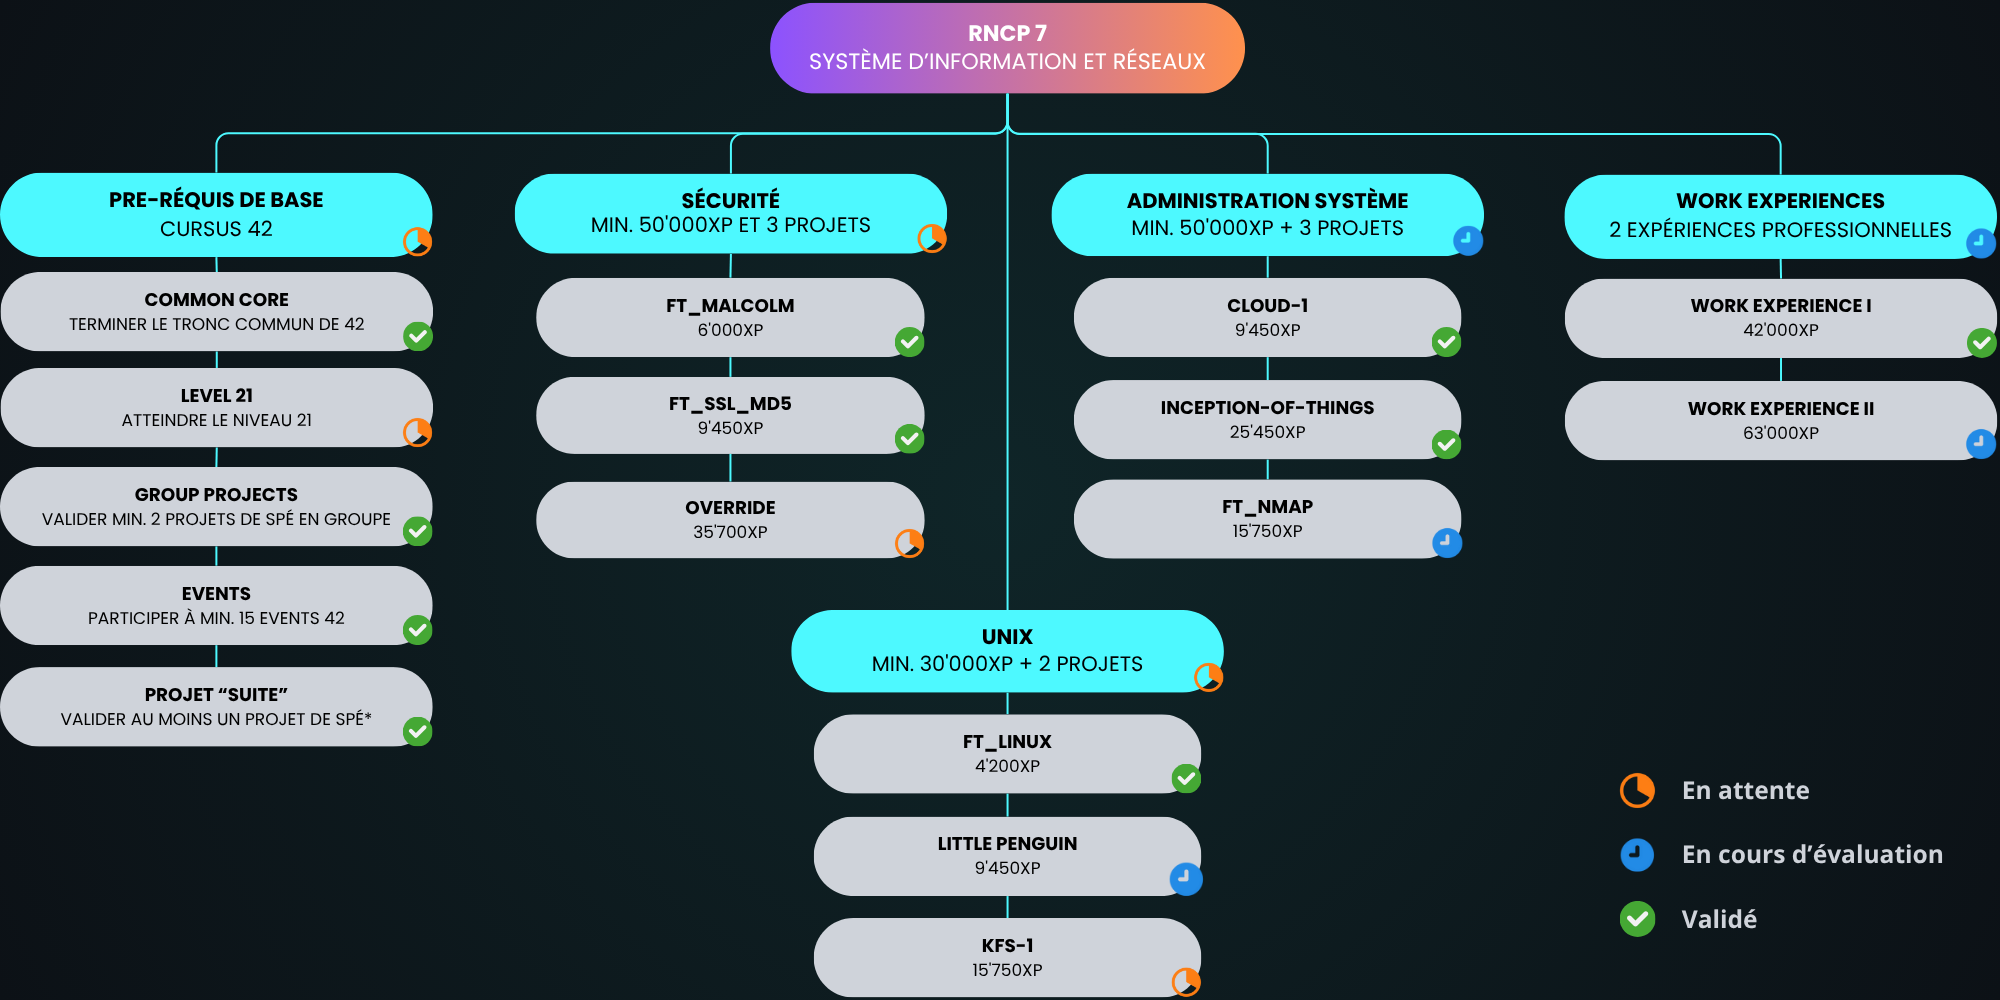
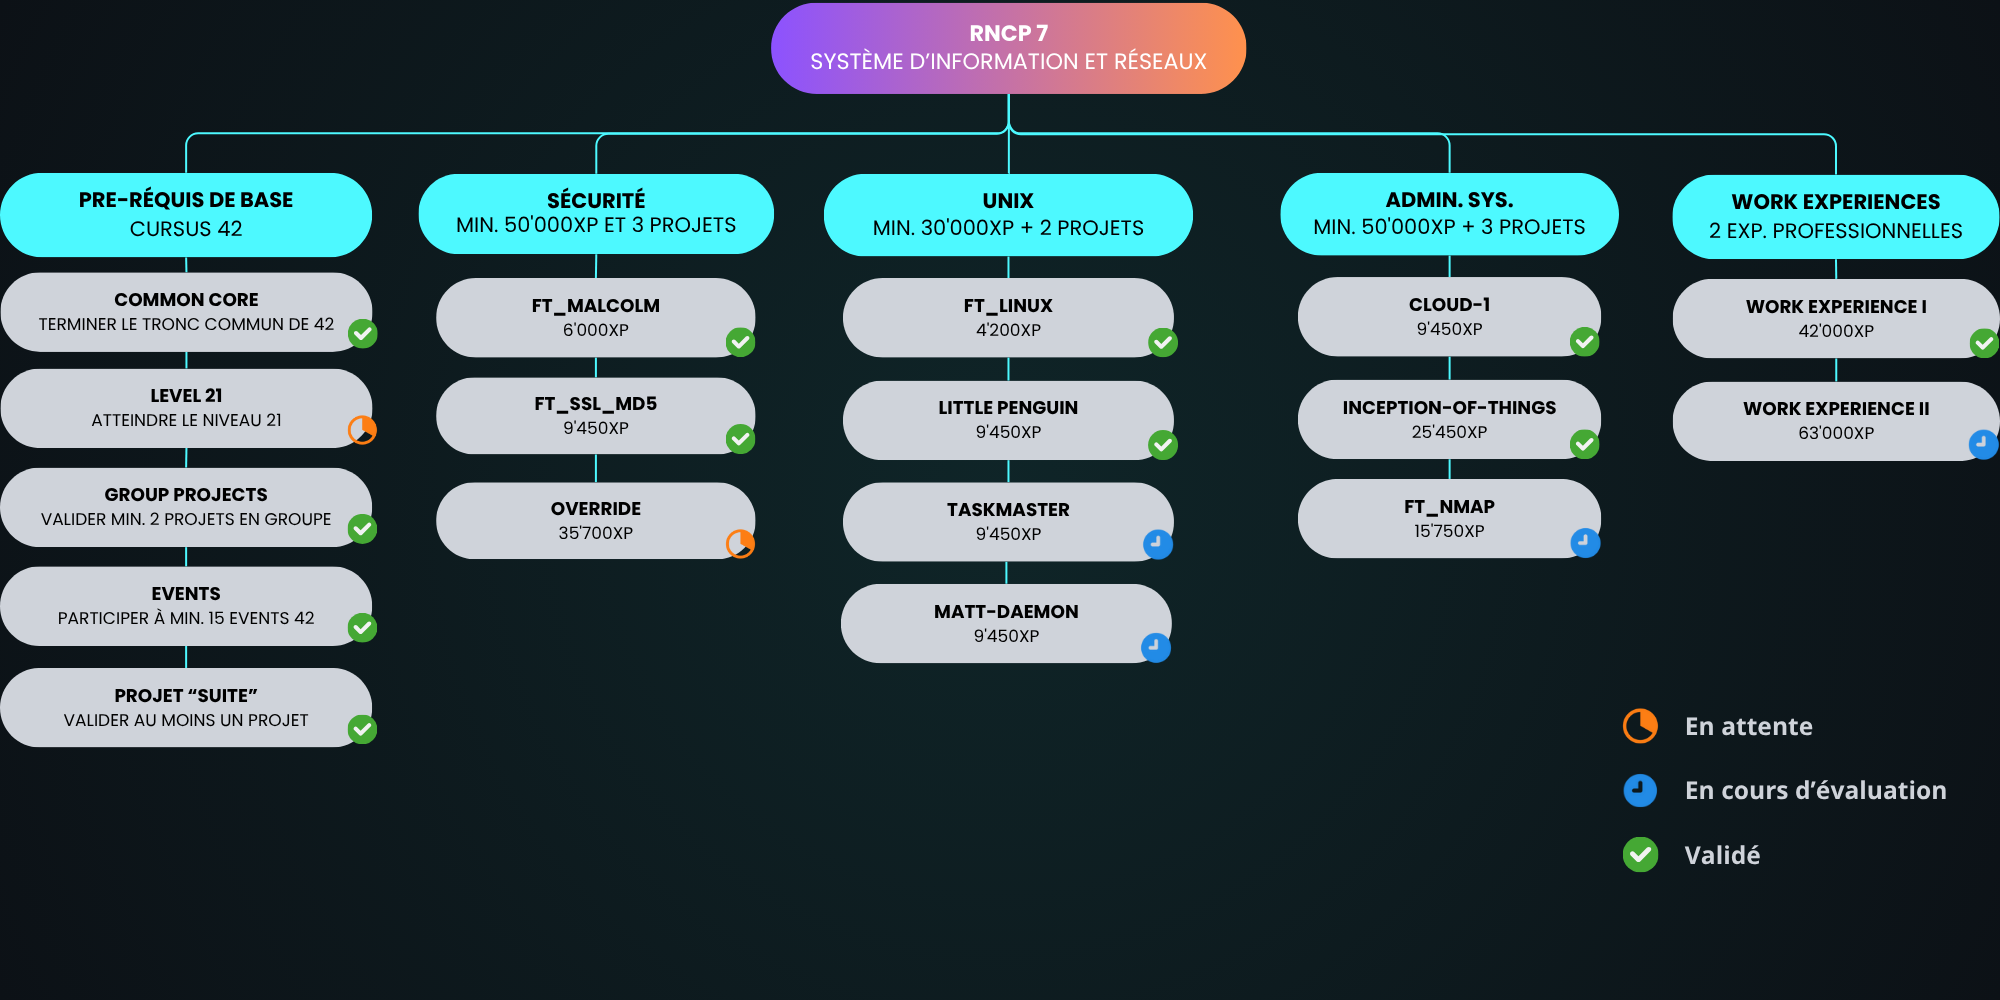
update RNCP + grade little-penguin

diff --git a/README.md b/README.md
@@ -59,7 +59,7 @@
 <img src="_git_utils/103.png" alt="grade" style="width: 19%;"></a>
 
 <a href="https://github.com/aceyzz/little-penguin-1"><img src="_git_utils/little-penguin.png" alt="little-penguin project logo" style="width: 80%;">
-<img src="_git_utils/dots.png" alt="grade" style="width: 19%;"></a>
+<img src="_git_utils/100.png" alt="grade" style="width: 19%;"></a>
 
 <a href="https://github.com/aceyzz/matt-daemon"><img src="_git_utils/matt-daemon.png" alt="matt-daemon project logo" style="width: 80%;">
 <img src="_git_utils/dots.png" alt="grade" style="width: 19%;"></a>
